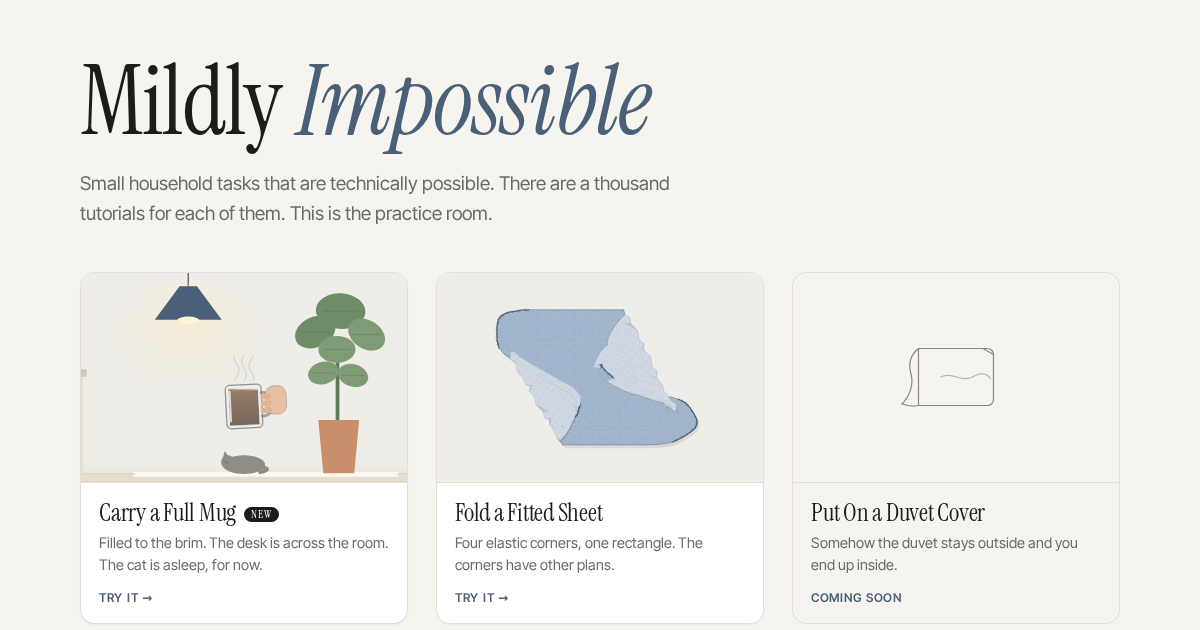
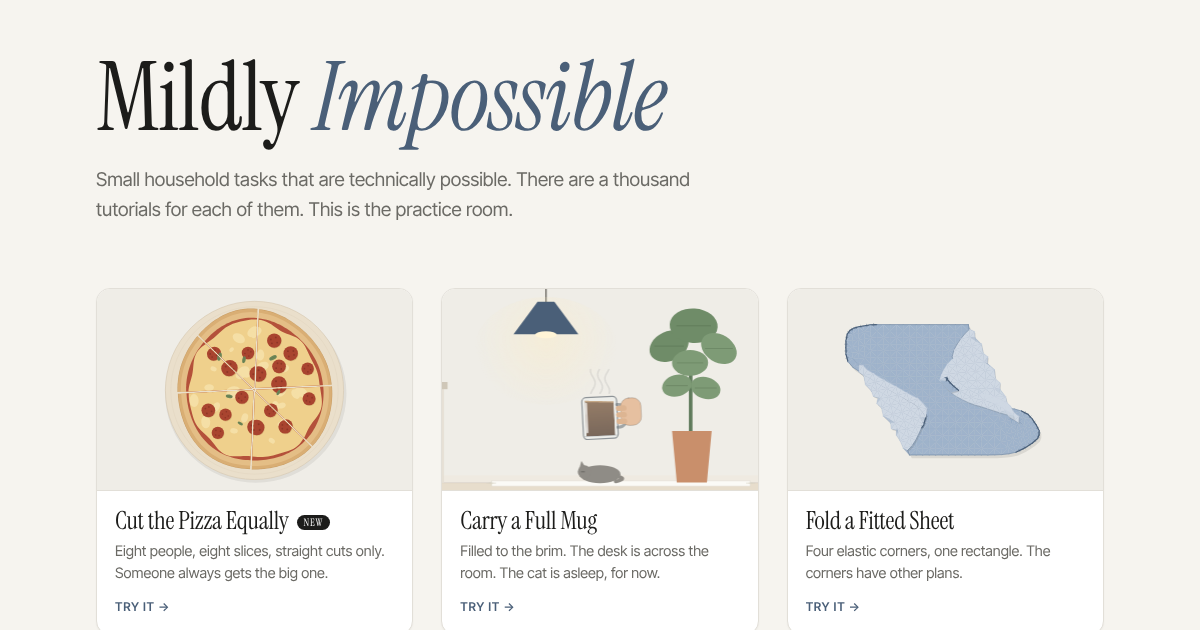
Deploy right after merging; refresh share image with the pizza
Each chore session now ships its own merged work instead of waiting for
a separate deploy session. The hub screenshot now shows Cut the Pizza
Equally.

Claude-Session: https://claude.ai/code/session_019bCiTLrjSqUjZFBy6uTJoR

diff --git a/CLAUDE.md b/CLAUDE.md
@@ -45,11 +45,11 @@ Each session builds exactly one chore, on its own branch, touching only its own 
 3. Do not edit shared files: `routes/`, `chores/registry.ts`, `chores/types.ts`, `site.css`, `__root.tsx`, `app-meta.json`, `public/assets/og.png`, other chores' folders. If a shared change is really needed, make it a separate small PR so it does not ride along with a game.
 4. Before opening the PR, in `app/`: `bun run build` (regenerates `src/routeTree.gen.ts`), then `bun run typecheck`. Both must pass. Check it in the browser with `bun run dev`, or `bun run preview` for the production build.
 5. Open a PR to `main`. Before merging, merge the latest `main` into the branch and re-run build + typecheck. Once they pass, merge the PR yourself (squash) without asking the user for confirmation.
-6. Do not deploy from a game session. Deploys happen from one session, after merges (below).
+6. Right after the merge, deploy it yourself (Shipping, below) without asking. A chore is done when it is live, not when it is merged.
 
 ## Shipping (Higgsfield)
 
-Only one session deploys, and only from merged `main`, so two deploys never race on Higgsfield's checkout. Refresh `app/public/assets/og.png` (a screenshot of the hub) in that session when the hub has changed.
+Every session deploys right after its PR is merged, always from merged `main` (never from a branch). Each deploy pulls the latest `main` first, so a later deploy always includes every earlier merge. If `website_repo_access` push is rejected (another session pushed first), pull `main` again and retry. After a new chore goes live the hub has changed: refresh `app/public/assets/og.png` (a 1200x630 screenshot of the top of the hub) in a small follow-up PR, merge it, and deploy again.
 
 The live site is hosted by Higgsfield (website_id `ccd8efc1-8cac-46a0-8f07-44bdd8c0505c`). This GitHub repo is the working copy; Higgsfield keeps its own copy and only deploys from that one. With the Higgsfield MCP server connected:
 
